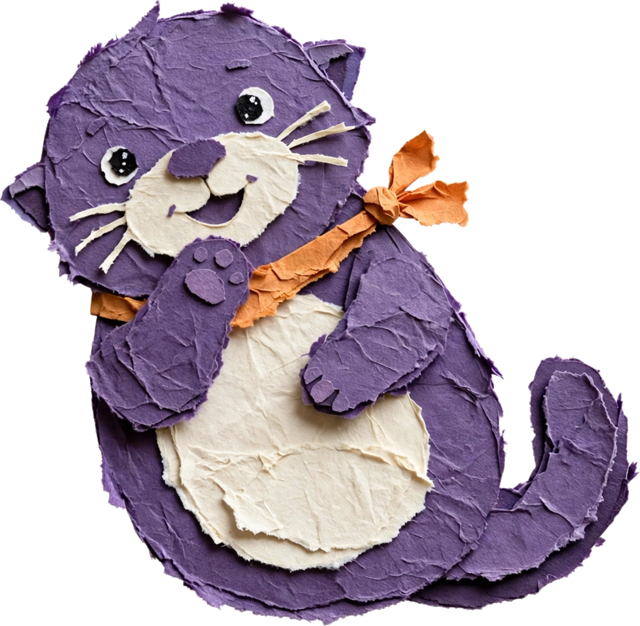
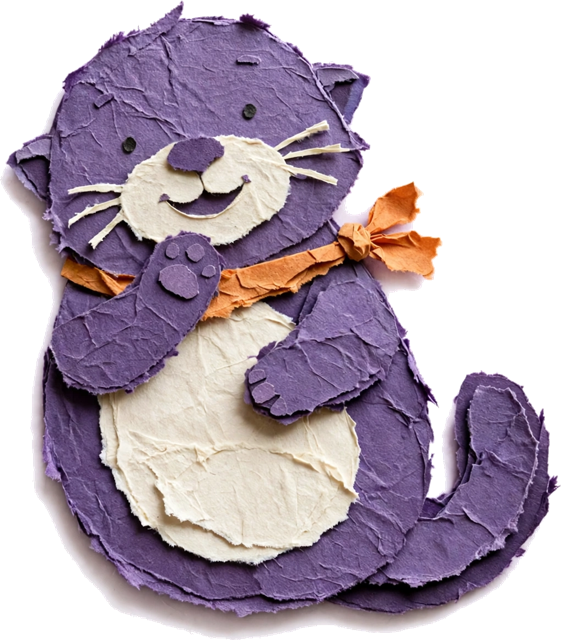
Greeting: waving pose with paper sparkle eyes; Continue: good-morning call

diff --git a/static/index.html b/static/index.html
@@ -539,7 +539,7 @@
     <div class="m-otter" aria-hidden="true">
       <div class="m-sleep-wrap"><img data-otter="bed_sleep" alt=""></div>
       <div class="m-zs"><span>z</span><span>z</span><span>Z</span></div>
-      <div class="m-awake-wrap"><div class="m-yawn"><img data-otter="bed_yawn" alt=""></div><div class="m-wave"><img data-otter="hello" alt=""></div></div>
+      <div class="m-awake-wrap"><div class="m-yawn"><img data-otter="bed_yawn" alt=""></div><div class="m-wave"><img data-otter="greet" alt=""></div></div>
     </div>
     <div class="m-note">
       <div class="m-date" id="mDate"></div>
@@ -1568,7 +1568,7 @@ const FORCE_MORNING = new URLSearchParams(location.search).has("morning");
 /* Otter expressions (Duolingo-style): one per moment. Made by scripts/otter_moods.py.
    Any that don't exist yet fall back to the waving otter, so nothing ever breaks. */
 const OTTER_FILES = { wave:"otter_awake.png", sleep:"otter_sleep_small.png" };
-const OTTER_FALLBACK = { bed_sleep:"sleep", bed_yawn:"yawn", yawn:"wave", ready:"hello", hello:"wave" };
+const OTTER_FALLBACK = { bed_sleep:"sleep", bed_yawn:"yawn", yawn:"wave", ready:"hello", greet:"hello", hello:"wave" };
 function otterSrc(name) { return "static/mascot/" + (OTTER_FILES[name] || `otter_${name}.png`); }
 function setOtter(img, name) {
   img.onerror = () => {
@@ -1593,7 +1593,7 @@ function usePropImg(img, name) {
 document.querySelectorAll("img.prop[data-prop]").forEach(i => usePropImg(i, i.dataset.prop));
 function otterImg(name, cls) { const i = document.createElement("img"); if (cls) i.className = cls; i.alt = ""; setOtter(i, name); return i; }
 document.querySelectorAll("img[data-otter]").forEach(i => setOtter(i, i.dataset.otter));
-["bed_sleep","bed_yawn","hello","ready","proud","hug","curious","thumbs","oops"].forEach(n => { const i = new Image(); i.src = otterSrc(n); });
+["bed_sleep","bed_yawn","greet","hello","proud","hug","curious","thumbs","oops"].forEach(n => { const i = new Image(); i.src = otterSrc(n); });
 function setFace(name) {
   const f = $("mFace");
   if (f.dataset.otter === name) return;
@@ -1639,7 +1639,7 @@ async function openHello() {
   clearTimeout(openHello._a); openHello._a = setTimeout(() => scene.classList.add("awake"), 5450);
   clearTimeout(openHello._idle);
   const waveImg = scene.querySelector(".m-wave img");
-  setOtter(waveImg, "hello");
+  setOtter(waveImg, "greet");
   clearTimeout(openHello._t);
   openHello._t = setTimeout(() => { btn.classList.add("ready"); btn.focus({ preventScroll:true }); }, (lettersEnd + 0.9) * 1000);
   yCardPromise = api(`/cards/${localYesterdayStr()}`)
@@ -1651,7 +1651,7 @@ $("mContinue").onclick = () => {
   $("mContinue").classList.remove("ready");
   // yay! the otter jumps for joy, then the journal page slides up
   const scene = $("hello"), box = scene.querySelector(".m-wave");
-  setOtter(box.querySelector("img"), "proud");
+  setOtter(box.querySelector("img"), "hello");
   box.classList.remove("hop"); void box.offsetWidth; box.classList.add("hop");
   setTimeout(morningYesterday, 750);
 };

diff --git a/scripts/otter_moods.py b/scripts/otter_moods.py
@@ -11,7 +11,8 @@ Scene props (sun, cloud, cloud2, boat) are painted too: python scripts/otter_moo
 Where each one shows up:
   bed_sleep  morning intro: fast asleep in its little paper bed
   bed_yawn   morning intro: sitting up in bed, stretching and yawning
-  hello      morning intro: out of bed, calling out "good morning!" (plays once)
+  greet      morning intro: out of bed, waving, paper-star sparkle eyes
+  hello      after tapping Continue: calling out "good morning!"
   ready      morning intro: fired up with a stack of flashcards, ready to work
   proud    yesterday's card when you finished everything; completion pop-up
   hug      yesterday's card on a lighter day; "running low" mornings
@@ -38,8 +39,8 @@ STYLE = ("Handmade paper cut-out illustration made of layered torn construction 
          "grain, subtle drop shadows between paper layers. The exact same small, chubby purple sea otter "
          "character from the reference image: same purple paper body, same cream paper face and belly, "
          "same little orange paper scarf, same paper whiskers. Expressive cartoon mascot, like an app "
-         "mascot sticker. Eyes are plain little dots or curves cut from dark paper, like the reference: "
-         "no sparkles, no stars, no shine, no glossy highlights, no realistic eyes. Only the otter, no other objects unless named, no text, no letters. "
+         "mascot sticker. Eyes are cut from paper like the reference: never shiny, glossy or realistic; any "
+         "sparkle in the eyes is a tiny matte star cut from cream paper. Only the otter, no other objects unless named, no text, no letters. "
          "Plain pure white background, centered, full body visible. Pose and expression: ")
 
 MOODS = {
@@ -53,6 +54,9 @@ MOODS = {
     "hello": "standing on its toes and leaning forward, both paws cupped around its open mouth like it is "
              "calling out a big cheerful 'good morning!' across a field, eyes squeezed happily shut, tail "
              "flicked up, scarf flying. Both paws must be at its mouth, not waving.",
+    "greet": "standing up, waving one paw high above its head with an excited big open-mouth smile, leaning "
+             "forward happily. Its eyes sparkle: each eye is a small dark paper circle with a tiny four-point "
+             "star cut from matte cream paper glued on top (paper sparkle, not shiny, not glossy).",
     "ready": "standing tall and fired up, excited and motivated to get to work, hugging a small stack of "
              "colourful paper flashcards (blank, no writing) to its chest with one paw and giving a determined "
              "fist pump with the other, big eager grin, eyes bright and sparkly, scarf flying.",
